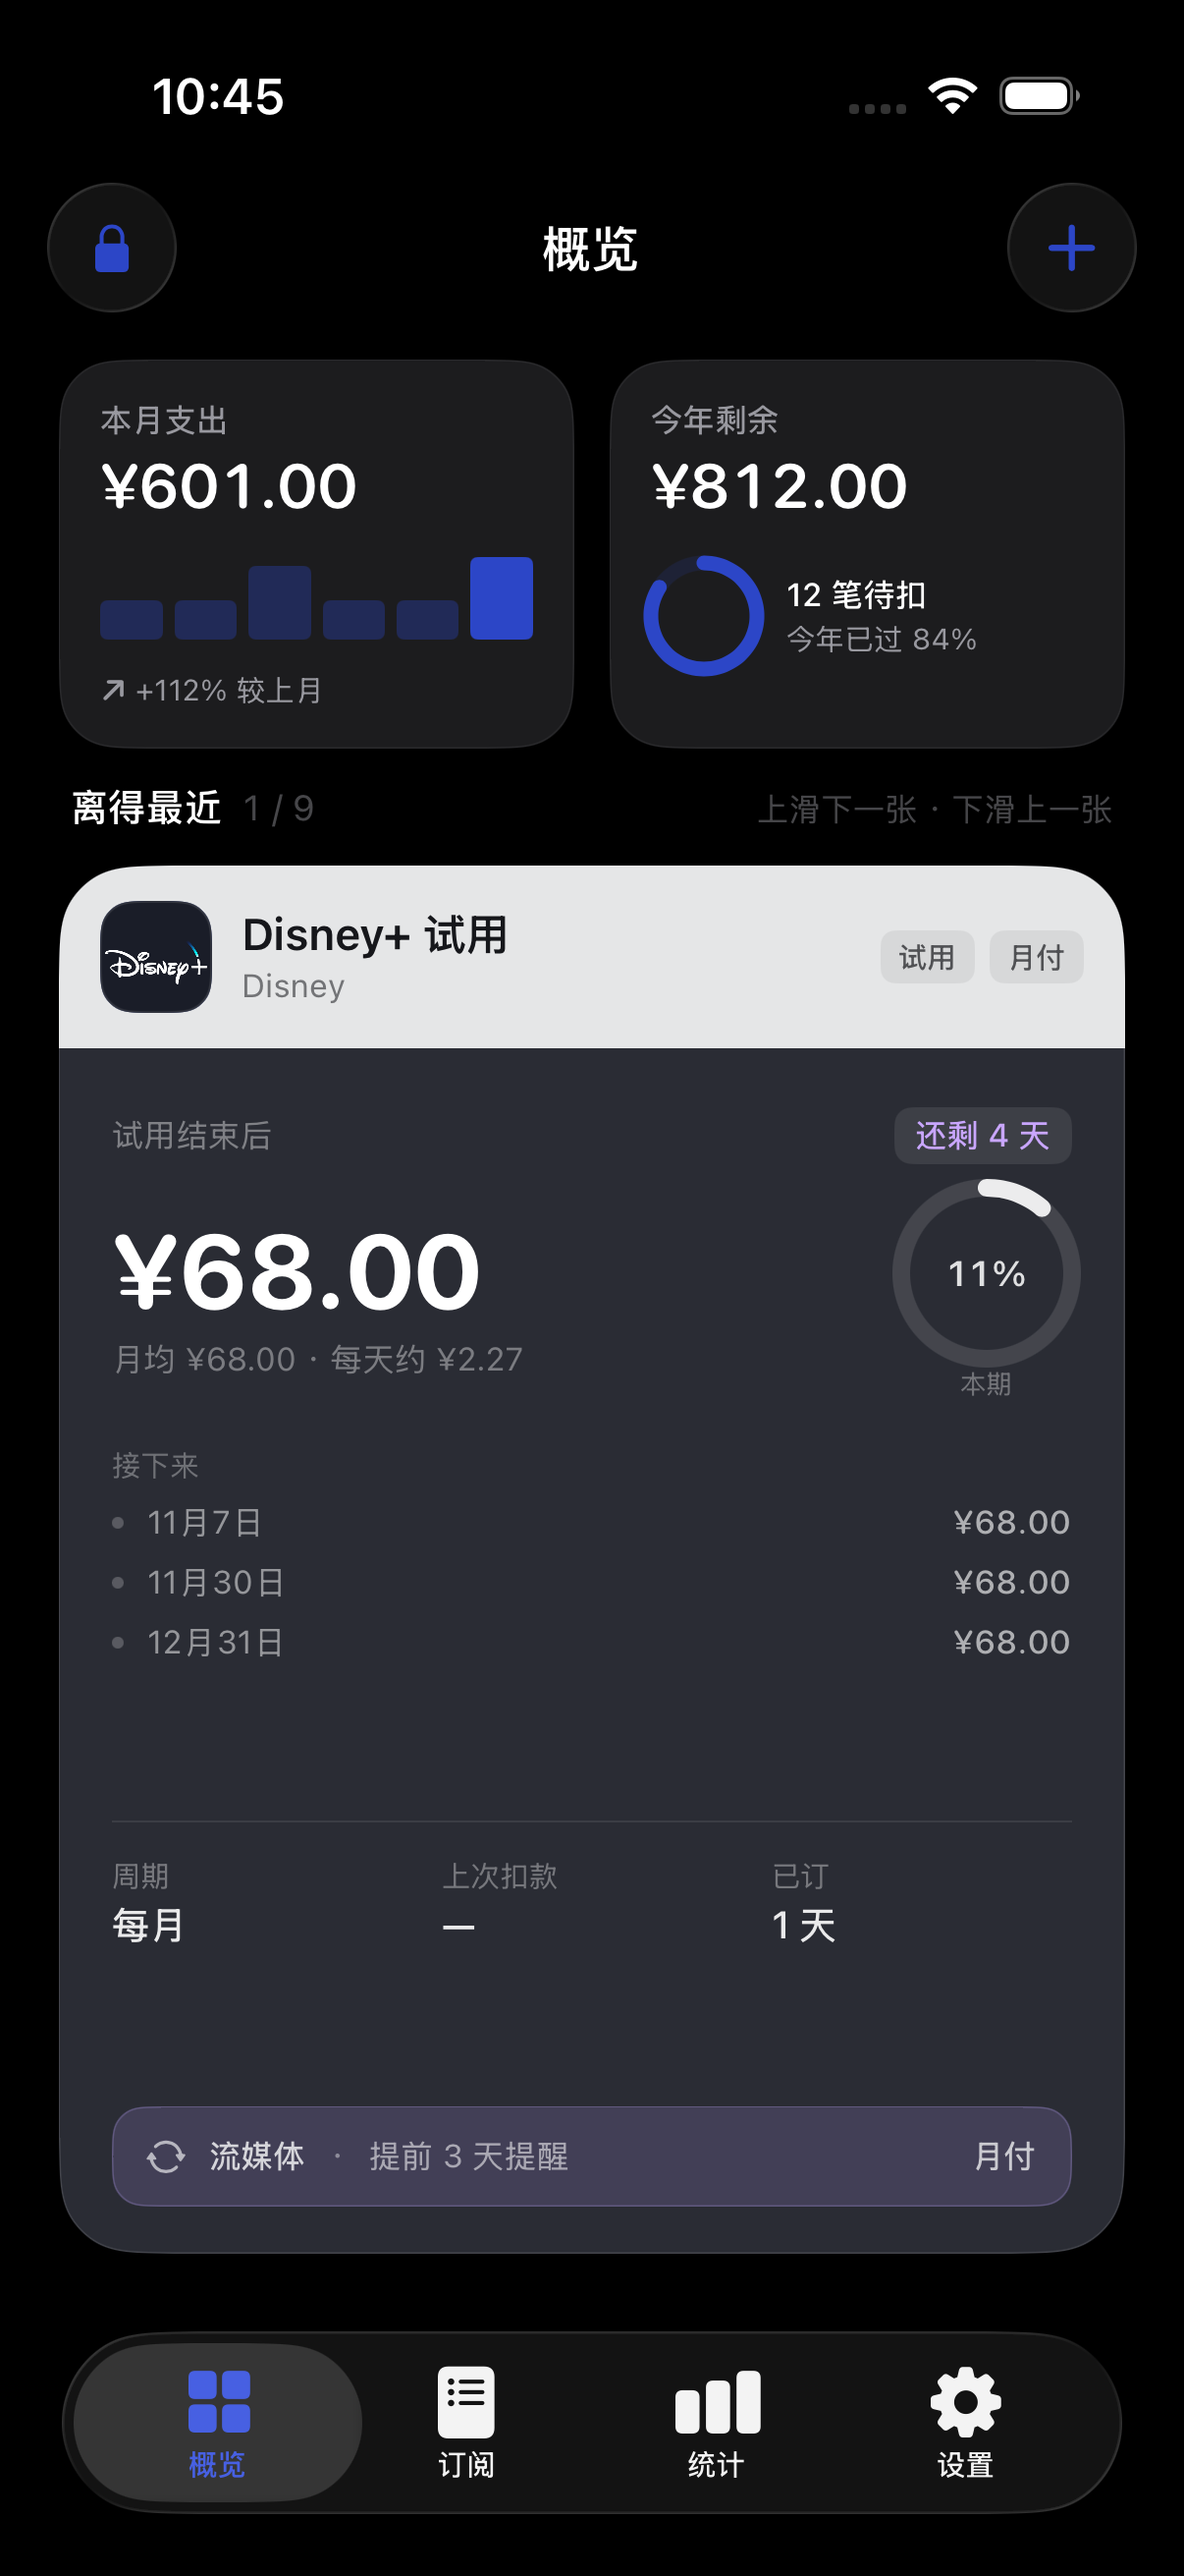
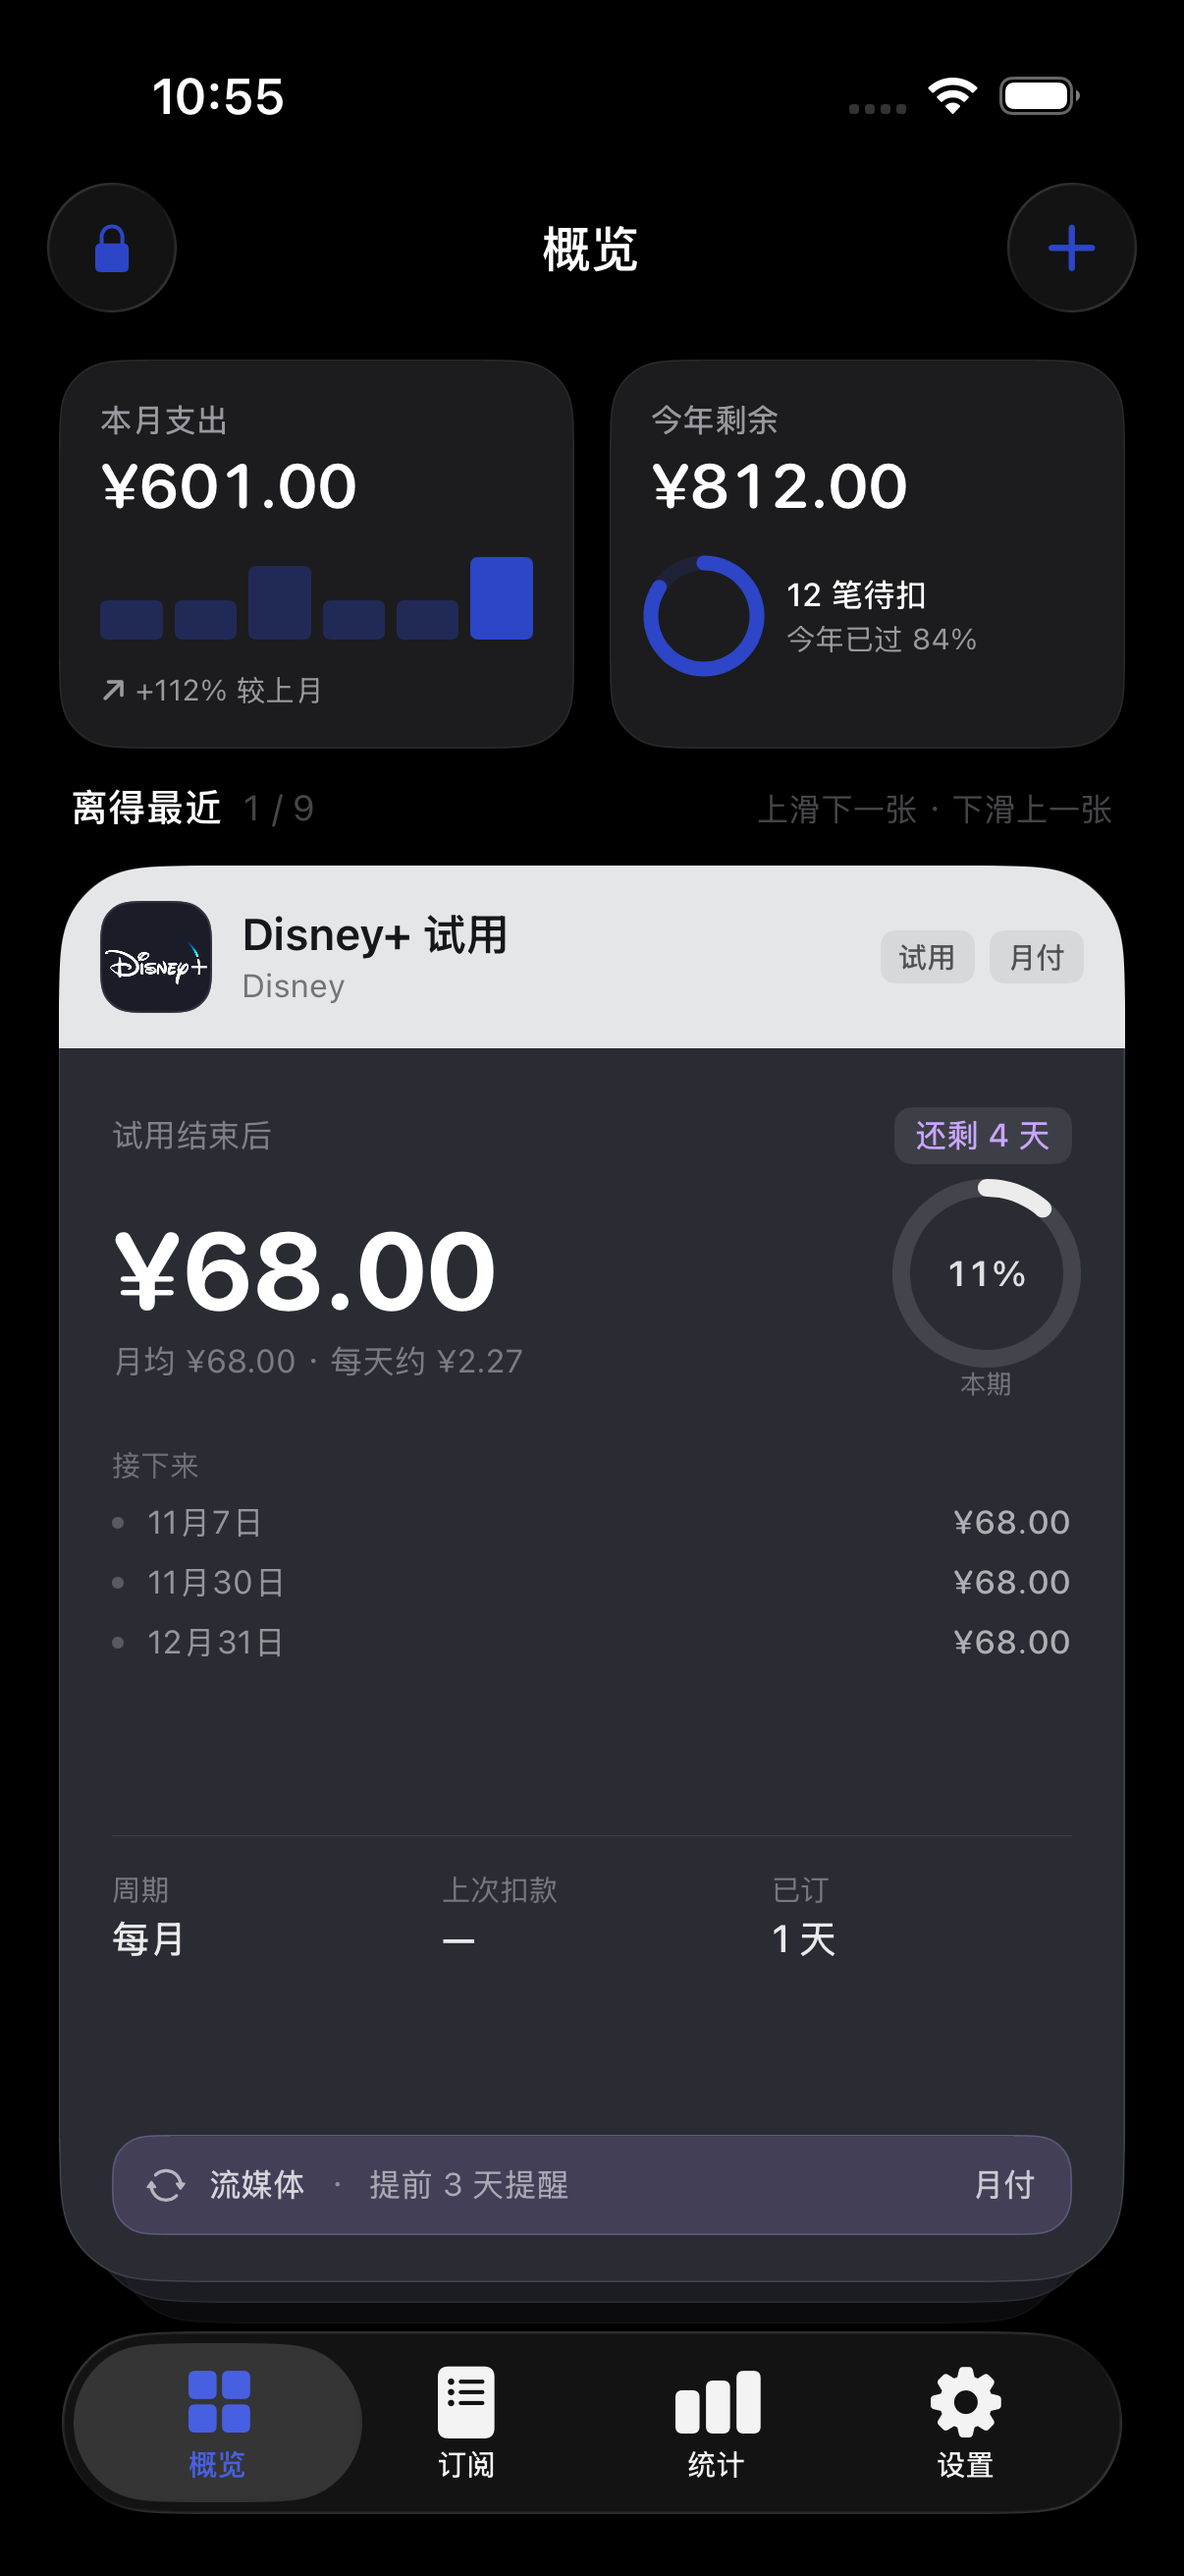
fix(home): 下滑层级、堆叠露边、透明度递减、圆角
- 下滑时上一张在当前卡下面：zIndex 改为 returning 时上一张升到最上
- 堆叠露边没了：等比缩小让底部上移抵消偏移，改为只横向收窄（高度不变）
- 露出太多：stackGap 11 → 7
- 后面的卡逐个递减透明度（0.55 / 0.25），淡入背景，去掉压黑遮罩
- 圆角 26 → 32，边缘不再锐利

版本 1.1.8（build 11）。

diff --git a/packages/WSubscriptionKit/Sources/WSFeatures/Dashboard/DashboardView.swift b/packages/WSubscriptionKit/Sources/WSFeatures/Dashboard/DashboardView.swift
@@ -182,7 +182,7 @@ private struct SubscriptionDeck: View {
     @State private var position: CGFloat = 0
     @State private var dragStart: CGFloat?
     /// 后面的卡向下错开的距离：堆叠在底部露边
-    private let stackGap: CGFloat = 11
+    private let stackGap: CGFloat = 7
 
     var body: some View {
         GeometryReader { proxy in
@@ -217,30 +217,45 @@ private struct SubscriptionDeck: View {
         return SubscriptionDeckCard(subscription: entry.item, isDark: colorScheme == .dark)
             .equatable()
             .frame(height: height)
-            .overlay {
-                // 越靠后的卡压一层黑，层次连续；卡片本体不参与每帧重算
-                RoundedRectangle(cornerRadius: 26, style: .continuous)
-                    .fill(.black.opacity(0.26 * Double(min(2, max(0, d)))))
-            }
-            .scaleEffect(scale(d), anchor: .top)
+            // 后面的卡逐个递减透明度，淡入页面背景，比压黑更轻
+            .opacity(stackOpacity(d))
+            .scaleEffect(x: scaleX(d), y: 1, anchor: .top)
             .offset(y: offset(d, height: height))
-            // 层级在整次拖动中固定，避免动画期间重排
-            .zIndex(Double(100 - abs(i - index) * 2))
+            .zIndex(zIndex(for: i))
             .allowsHitTesting(i == index)
             .onTapGesture { if i == index { onSelect(entry.item) } }
     }
 
     // MARK: 变换：d 的单一连续函数（没有 index 分支，这是消除跳动的关键）
 
-    /// 堆叠中的卡略小；正在翻走的卡保持原尺寸飞出。
-    private func scale(_ d: CGFloat) -> CGFloat {
-        d >= 0 ? 1 - 0.04 * min(2, d) : 1
+    /// 堆叠中的卡逐个递减透明度：第一张 0.55，第二张 0.28，淡进背景。
+    private func stackOpacity(_ d: CGFloat) -> Double {
+        guard d > 0 else { return 1 }
+        return max(0.25, 1 - 0.45 * Double(min(2, d)))
+    }
+
+    /// 堆叠中的卡只横向收窄（不缩高度）：
+    /// 高度不变 + 向下偏移，底部才能露出一条边；等比缩小会把露边抵消掉。
+    private func scaleX(_ d: CGFloat) -> CGFloat {
+        d >= 0 ? 1 - 0.05 * min(2, d) : 1
     }
 
     /// d >= 0：堆叠的卡向下错开 stackGap，底部露边；
     /// d < 0：翻走的卡按 1:1 跟手向上飞出（d 每减 1，位移正好一整张卡高）。
     private func offset(_ d: CGFloat, height: CGFloat) -> CGFloat {
         d >= 0 ? stackGap * d : d * height
+    }
+
+    /// 正在往回翻（下滑，position 小于当前 index）时，从上方回来的那张卡必须盖在当前卡之上，
+    /// 否则它会从当前卡「下面」滑出来，看起来很奇怪。
+    /// 上滑时当前卡始终在最上，飞走后露出下一张。
+    private var returning: Bool { position < CGFloat(index) }
+
+    private func zIndex(for i: Int) -> Double {
+        if i == index { return returning ? 90 : 100 }
+        if i == index - 1 { return returning ? 110 : 80 }
+        if i < index { return 80 }
+        return Double(80 - (i - index))
     }
 
     // MARK: 手势
@@ -456,11 +471,11 @@ private struct SubscriptionDeckCard: View, Equatable {
         .frame(maxWidth: .infinity, maxHeight: .infinity, alignment: .top)
         .background(surface)
         .overlay {
-            RoundedRectangle(cornerRadius: 26, style: .continuous)
+            RoundedRectangle(cornerRadius: 32, style: .continuous)
                 .strokeBorder(.white.opacity(colorScheme == .dark ? 0.12 : 0.05), lineWidth: 0.5)
         }
-        .clipShape(RoundedRectangle(cornerRadius: 26, style: .continuous))
-        .contentShape(RoundedRectangle(cornerRadius: 26, style: .continuous))
+        .clipShape(RoundedRectangle(cornerRadius: 32, style: .continuous))
+        .contentShape(RoundedRectangle(cornerRadius: 32, style: .continuous))
     }
 
     // 顶部横条：浅色半透明底，图标和名字都放在这条上，深色卡片里也能一眼看清
@@ -634,9 +649,9 @@ private struct SubscriptionDeckCard: View, Equatable {
             .frame(height: 34)
             .frame(maxWidth: .infinity)
             .background(Color(hex: "#8E7CC3").opacity(0.24),
-                        in: RoundedRectangle(cornerRadius: 11, style: .continuous))
+                        in: RoundedRectangle(cornerRadius: 13, style: .continuous))
             .overlay {
-                RoundedRectangle(cornerRadius: 11, style: .continuous)
+                RoundedRectangle(cornerRadius: 13, style: .continuous)
                     .strokeBorder(Color(hex: "#A996E3").opacity(0.30), lineWidth: 0.5)
             }
         }

diff --git a/docs/开发方案.md b/docs/开发方案.md
@@ -1147,3 +1147,11 @@ iOS 26 的选择器只对**可写目录**启用「打开」；再叠加侧载签
 **其他**：卡片底部改为半透明淡紫横条（分类 · 提醒 · 周期）；分类查表从服务模板表改回分类表（原来一直显示「未分类」）；试用订阅「上次扣款」显示「—」。
 
 56 个单测全绿。版本 1.1.7（build 10）。
+
+### 17.16 堆叠视觉修正（v1.1.8）
+
+- **下滑时上一张在当前卡下面**：上一版把 zIndex 固定成「当前卡永远最上」，往回翻时上一张被当前卡挡住，从下面滑出来。改成 `returning = position < index`：往回翻时上一张 zIndex 110 升到最上，上滑时当前卡保持最上飞出。
+- **堆叠露边没了**：后面的卡用等比 `scaleEffect(anchor: .top)`，缩小让底部上移约 16pt，抵消了 11pt 的向下偏移。改成**只横向收窄**（`scaleEffect(x:y:1)`），高度不变，向下偏移才能露出底边。
+- **露出太多**：stackGap 11 → 7，两条边分别露 7pt / 14pt。
+- **逐个递减透明度**：后面的卡去掉压黑遮罩，改整卡 opacity（第一张 0.55、第二张 0.25 保底），淡入页面背景。
+- 卡片圆角 26 → 32，淡紫横条圆角 11 → 13，边缘不再锐利。
